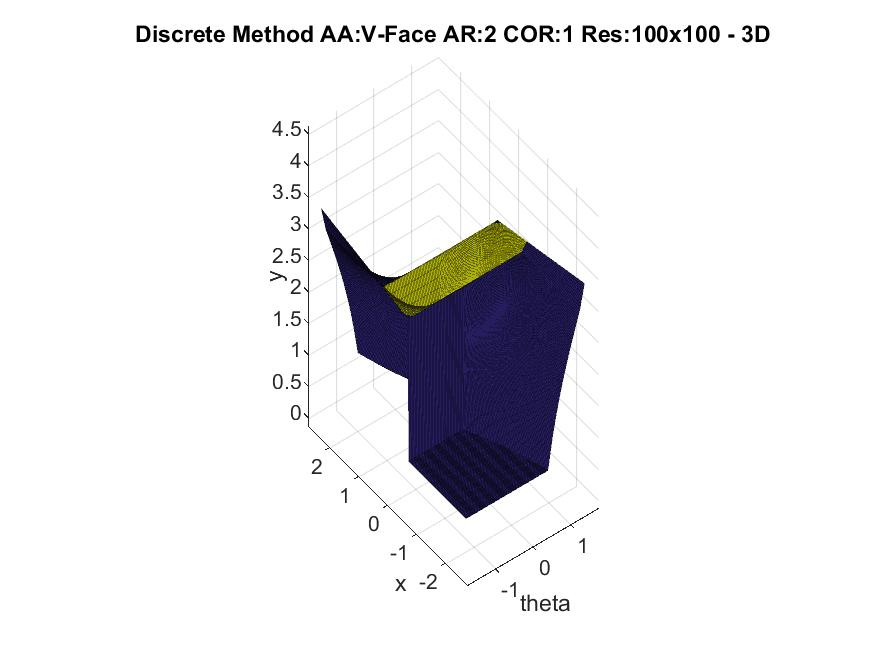
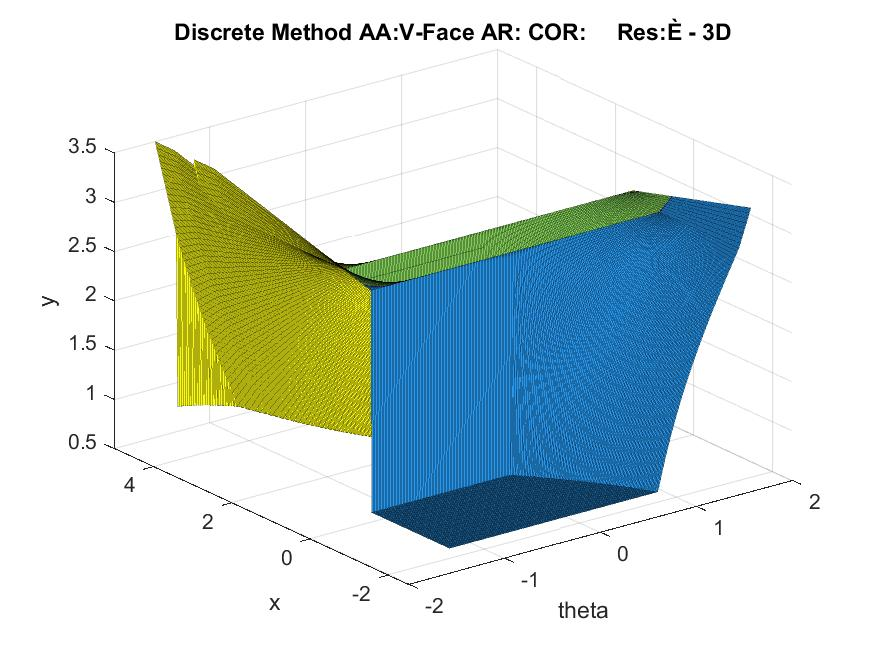
merge threshold added to 2d code

diff --git a/source/findWsVFaceDepth.m b/source/findWsVFaceDepth.m
@@ -1,10 +1,9 @@
-function [sumAA,onAA,onAACells,mergeMetrics]=findWsVFaceDepth(resolution,DesignParams, depthTolerance)
+function [sumAA,onAA,onAACells,mergeMetrics]=findWsVFaceDepth(resolution,DesignParams, depthToleranceFactor)
 FALLOFF_MINIMUM=0;
 BORDER_SIZE=100;
 FILE_CHARS=24;
-
-if ~even(resolution)
-   resolution=resolution-1;
+if mod(resolution,2)>0
+    resolution=resolution-1;
 end
 
 filename=makeFilename(DesignParams);
@@ -15,7 +14,9 @@ ObstaclePolyhedra=generate2DObstaclePolyhedra(DesignParams);
 
 heightMap=generateHeightMap(Offsets,ObstaclePolyhedra);
 
-watersheds=watershed(heightMap); 
+depthTolerance=findDepthTolerance(depthToleranceFactor,heightMap);
+
+watersheds=watershed(heightMap)+2;
 
 mergeMetrics=populate2DMergeMetrics(heightMap,watersheds);
 

diff --git a/scripts/vfaceTesterMultiParams.m b/scripts/vfaceTesterMultiParams.m
@@ -1,0 +1,17 @@
+close all
+
+RESOLUTION=100;
+DEPTH_TOL_FACTOR=0.36;
+aspectRatios = [1/4 1/2  1 2 4];
+rotationCenters = [-1 -1/2 0 1/2 1];
+aaResult=zeros(numel(aspectRatios),numel(rotationCenters));
+onaaResult=zeros(numel(aspectRatios),numel(rotationCenters));
+onaaDigits=zeros(numel(aspectRatios),numel(rotationCenters));
+ndMetrics=cell(numel(aspectRatios),numel(rotationCenters));
+for i=1:numel(aspectRatios)
+    for j=1:numel(rotationCenters)
+        DesignParams.aspectRatio=aspectRatios(i);
+        DesignParams.rotationCenter=rotationCenters(j);
+        [aaResult(i,j),onaaTest(i,j),onaaDigits(i,j),ndMetrics{i,j}]=findWsVFaceDepth(100,DesignParams,0.36);
+    end
+end

diff --git a/source/plotTransparent3DHeightMap.m b/source/plotTransparent3DHeightMap.m
@@ -1,4 +1,4 @@
-function []=plotTransparent3DHeightMap(watersheds,heightMap,OffsetMats,PlotLimits)
+function []=plotTransparent3DHeightMap(watersheds,heightMap,OffsetMats,PlotLimits, Params, resolution)
 figure(2)
 alphaData=0.5*ones(size(watersheds));
 tMatTrimmed=OffsetMats.tMat(PlotLimits.iMin:PlotLimits.iMax,PlotLimits.jMin:PlotLimits.jMax);
@@ -11,4 +11,6 @@ xlabel('theta')
 ylabel('x')
 zlabel('y')
 axis equal
+titleString=strcat('Discrete Method AA:V-Face AR:',Params.aspectRatio,' COR:',Params.rotationCenter,' Res:',resolution,' - 3D');
+title(titleString)
 end

diff --git a/scripts/vfaceTester.m b/scripts/vfaceTester.m
@@ -1,3 +1,3 @@
 DesignParams.aspectRatio=4;
 DesignParams.rotationCenter=1;
-[aaTest,onaaTest,onaaDigits,ndMetrics]=findWsVFaceDepth(200,DesignParams,0.4);
+[aaTest,onaaTest,onaaDigits,ndMetrics]=findWsVFaceDepth(100,DesignParams,0.36);

diff --git a/source/findDepthTolerance.m b/source/findDepthTolerance.m
@@ -1,0 +1,3 @@
+function depthTolerance = findDepthTolerance(depthTolFactor,heightMap)
+depthTolerance = depthTolFactor*(max(heightMap(:))-min(heightMap(:)));
+end
